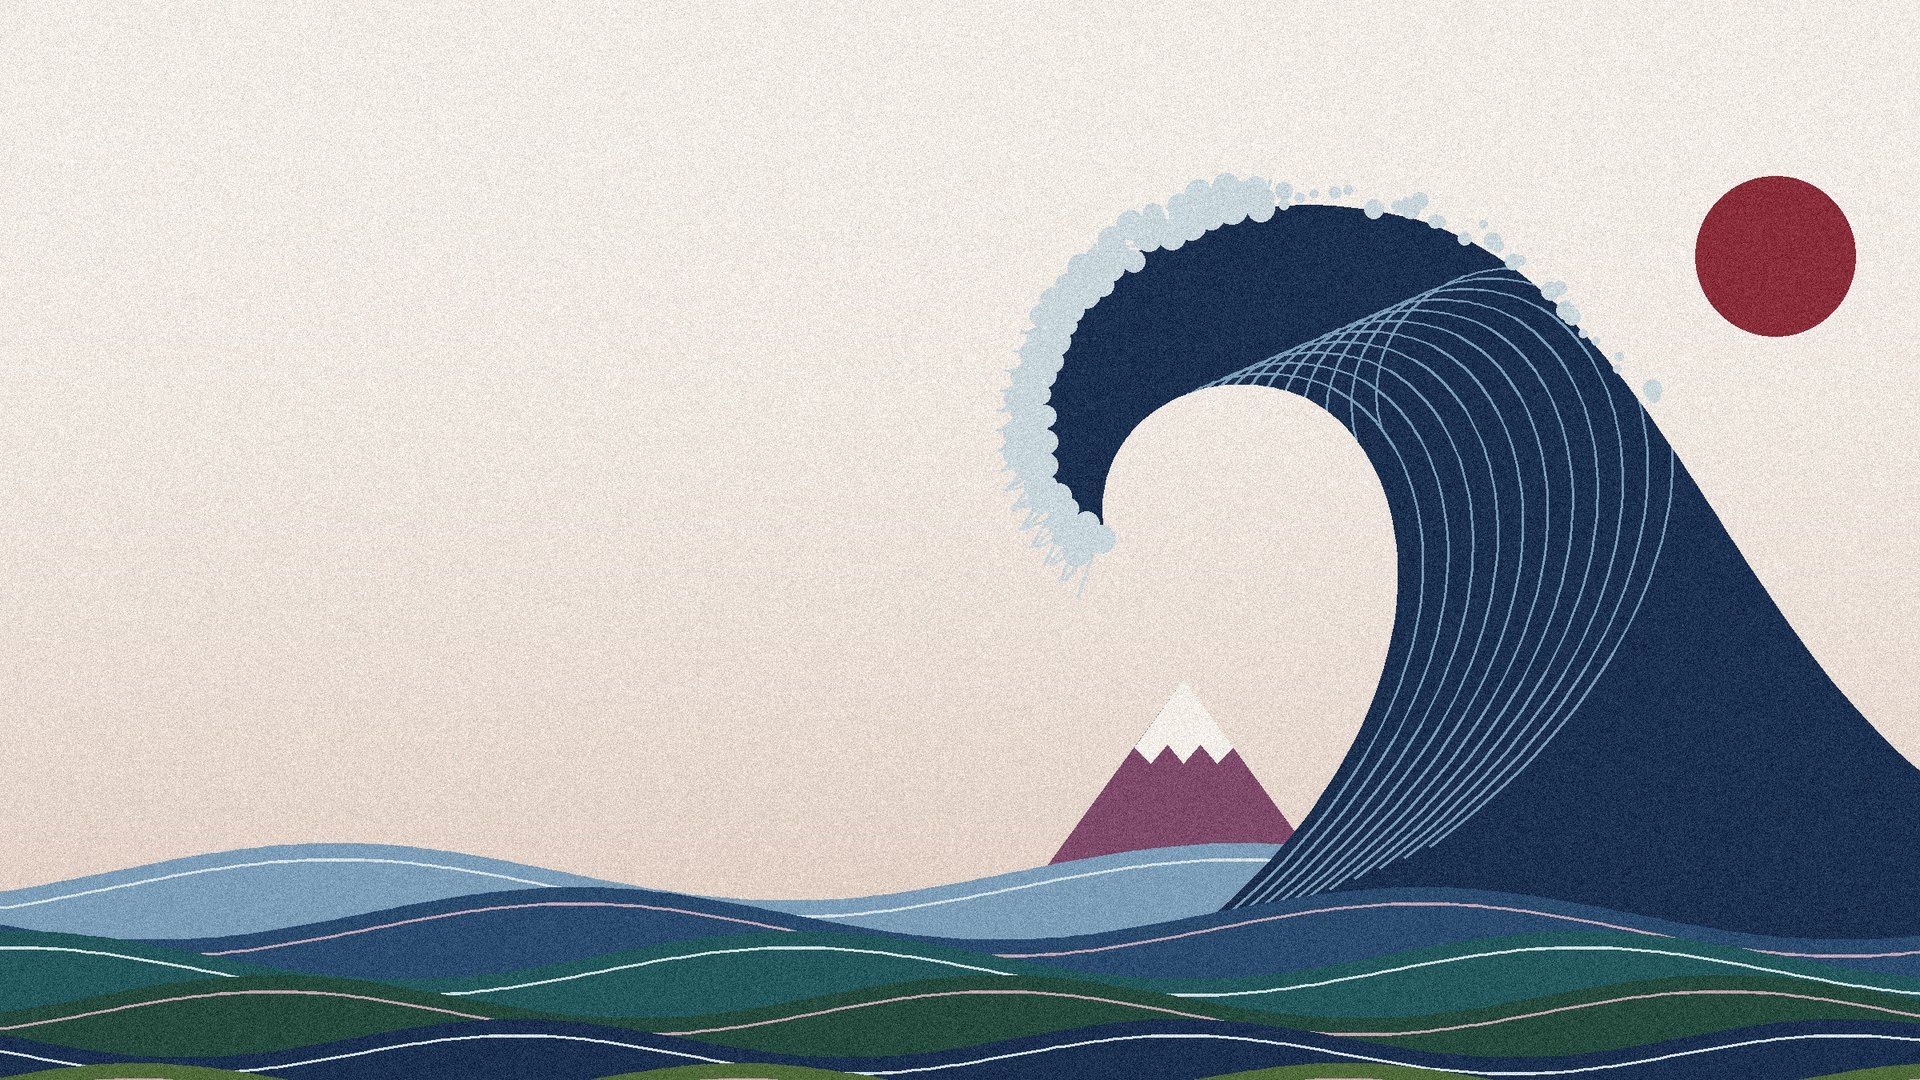
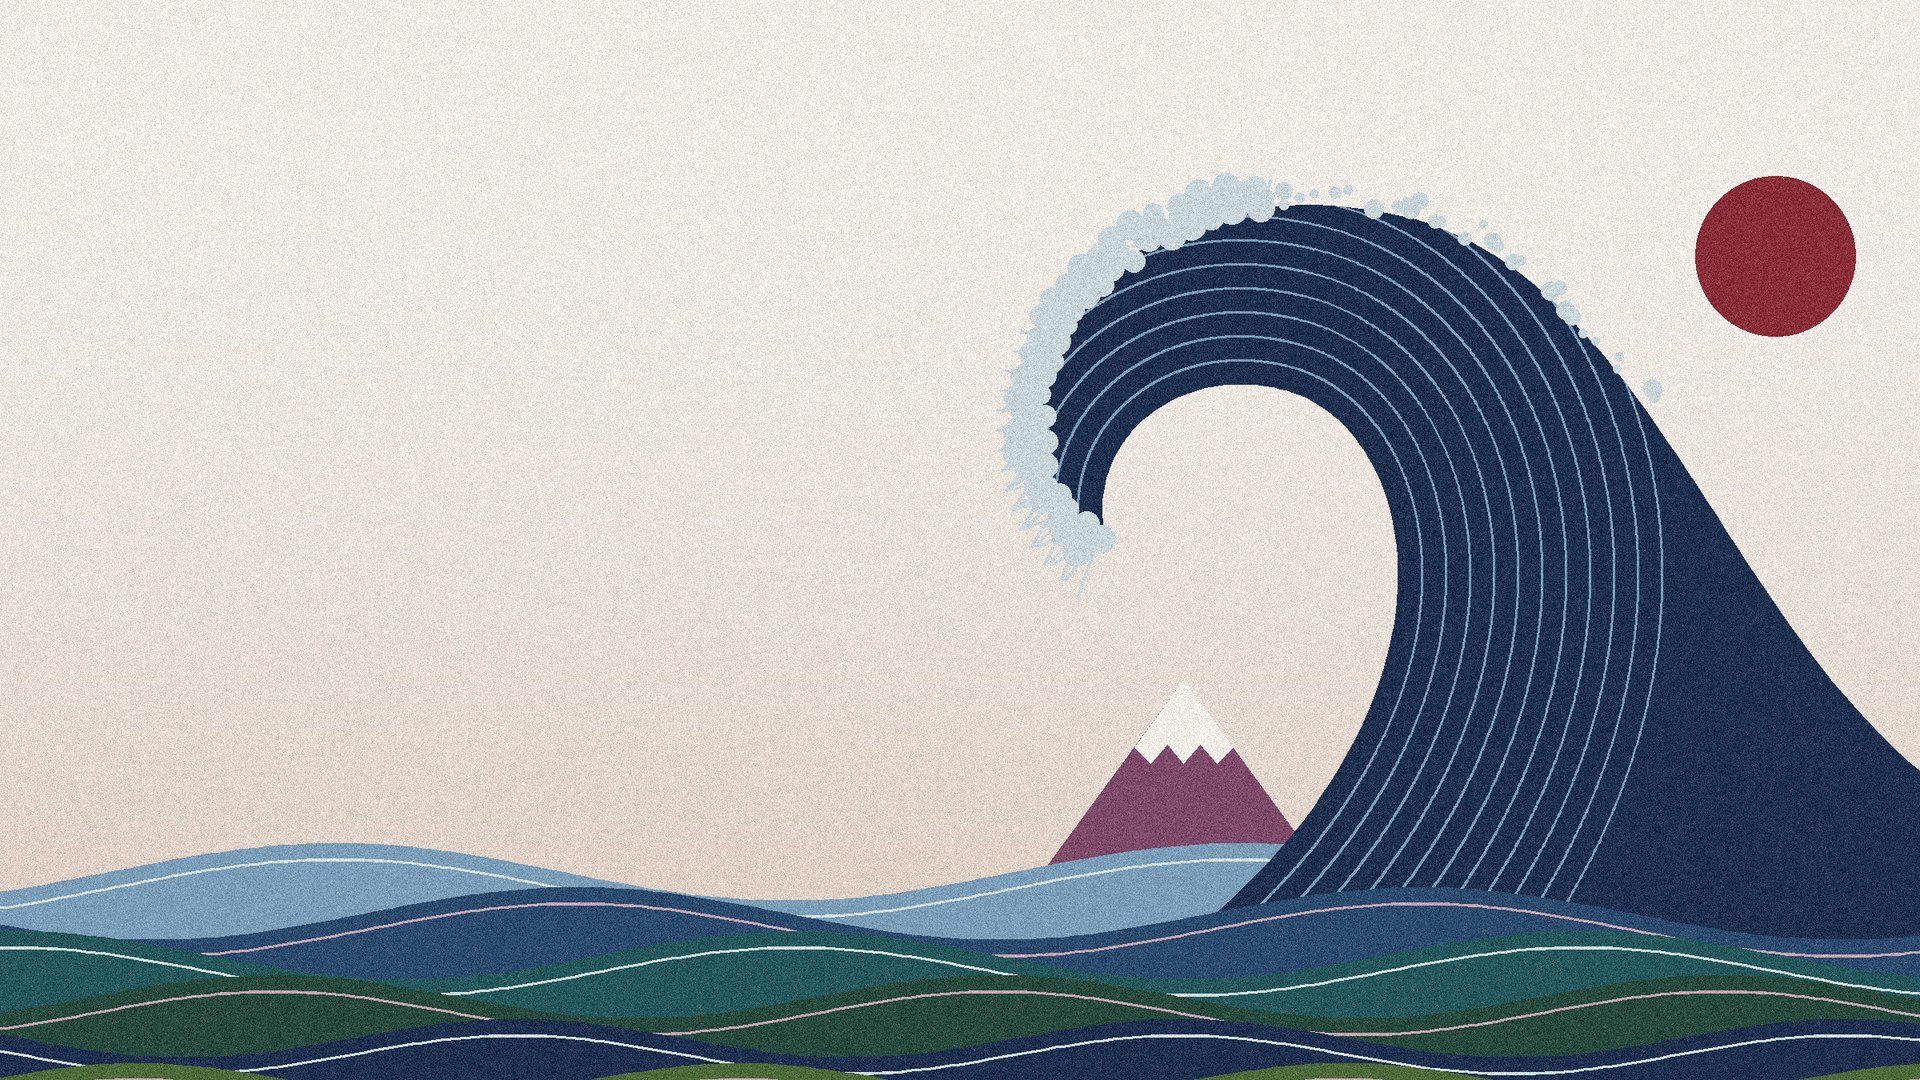
Hero wave lines run evenly; lighter grain on the signup sunset; 8 recent issues
The wave's stripes are now true parallel offsets of its inner curve, so they
follow the curl without crossing.

Claude-Session: https://claude.ai/code/session_01CPFfiZz4rjPwAdTY8Ptavd

Changed region(s): [[0.5625, 0.2139, 0.875, 0.8556]]

diff --git a/art/lib.py b/art/lib.py
@@ -50,7 +50,7 @@ def sea(im, y, col, line=None, gap=20, amp=4, freq=36, top=0):
             pts = [(x*S, (y0 + math.sin(x / freq + k) * amp)*S) for x in range(0, 1210, 5)]
             d.line(pts, fill=line, width=2*S)
 
-def wave(im, ox, oy, sc, body, stripe, foam, claws=True, seed=5, soft=False):
+def wave(im, ox, oy, sc, body, stripe, foam, claws=True, seed=5, soft=False, parallel=False):
     rng = np.random.default_rng(abs(int(seed)))
     d = ImageDraw.Draw(im)
     P = lambda x, y: ((ox + x * sc) * S, (oy + y * sc) * S)
@@ -69,7 +69,22 @@ def wave(im, ox, oy, sc, body, stripe, foam, claws=True, seed=5, soft=False):
         poly = [tuple(p) for p in outer] + [tuple(p) for p in inner] + [P(480, 900), P(0, 900)]
     mask = Image.new('L', (W, H), 0); ImageDraw.Draw(mask).polygon(poly, fill=255)
     layer = Image.new('RGB', (W, H), body); ld = ImageDraw.Draw(layer)
-    for k in range(1, 12):
+    if parallel:
+        # true parallel offsets of the inner curve, so the lines run evenly and never cross
+        dense = np.vstack([bez(*[np.array(q) for q in seg], n=400) for seg in (
+            (P(830, 385), P(860, 280), P(760, 195), P(650, 222)),
+            (P(650, 222), P(500, 255), P(430, 560), P(780, 820)))]) if soft else inner
+        tan = np.gradient(dense, axis=0); tan /= (np.linalg.norm(tan, axis=1, keepdims=True) + 1e-9)
+        nrm = np.stack([tan[:, 1], -tan[:, 0]], axis=1)
+        mk = np.asarray(mask)
+        mid = dense[len(dense) // 2] + nrm[len(dense) // 2] * 20 * S * sc
+        if not (0 <= int(mid[1]) < H and 0 <= int(mid[0]) < W and mk[int(mid[1]), int(mid[0])]):
+            nrm = -nrm
+        for k in range(1, 12):
+            pts = dense + nrm * k * 25 * sc * S
+            ld.line([tuple(p) for p in pts], fill=stripe, width=max(2, int(3 * S * max(sc, .6))), joint='curve')
+    else:
+      for k in range(1, 12):
         off = np.array([-k * 26 * sc * S, -k * 11 * sc * S])
         ld.line([tuple(p + off) for p in inner], fill=stripe, width=max(2, int(3 * S * max(sc, .6))))
     im.paste(layer, (0, 0), mask)

diff --git a/art/blog/signup_bands.py b/art/blog/signup_bands.py
@@ -87,6 +87,11 @@ rng5 = np.random.default_rng(25)
 a5 = np.asarray(small, dtype=float) + rng5.normal(0, 30, (352, 1100, 1))
 Image.fromarray(np.clip(a5, 0, 255).astype('uint8')).resize((1920, 614), Image.BICUBIC).save(OUT + 'signup_wine_sunset.jpg', quality=88)
 print('done 5')
+# 5 soft: the same scene with finer, lighter grain for the website
+small_s = im.resize((1500, 480), Image.LANCZOS)
+a5s = np.asarray(small_s, dtype=float) + np.random.default_rng(25).normal(0, 17, (480, 1500, 1))
+Image.fromarray(np.clip(a5s, 0, 255).astype('uint8')).resize((1920, 614), Image.BICUBIC).save(OUT + 'signup_wine_sunset_soft.jpg', quality=88)
+print('done 5 soft')
 
 # 7 Wine sunset with the moon's colour: option 5, but the sun takes the blush moon colour of the original band
 im = Image.fromarray(np.clip(base, 0, 255).astype('uint8'))

diff --git a/art/blog/banners_tall.py b/art/blog/banners_tall.py
@@ -98,7 +98,7 @@ im = canvas(c['paper'], c['clay'], 2)
 disc(im, 1200 - 1110, 160, 50, c['wine'])
 mountain(im, 350, 570, 460, 425, 575, c['plum'], snow=c['paper'])
 bands(im)
-wave(im, 10, 110, 0.6, c['indigo'], c['skyb'], c['mist'], seed=5, soft=True)
+wave(im, 10, 110, 0.6, c['indigo'], c['skyb'], c['mist'], seed=5, soft=True, parallel=True)
 bands(im, start=1)
 save(ImageOps.mirror(im), 'banner_swell_wave_mountain_sun_tall.jpg', seed=7)
 print('done 7b')

diff --git a/art/blog/banner_layers.py b/art/blog/banner_layers.py
@@ -52,7 +52,7 @@ save(im, 'bg.webp', 7)
 
 # the wave alone
 im = Image.new('RGBA', (W, H), (0, 0, 0, 0))
-wave(im, 10, 110, 0.6, c['indigo'], c['skyb'], c['mist'], seed=5, soft=True)
+wave(im, 10, 110, 0.6, c['indigo'], c['skyb'], c['mist'], seed=5, soft=True, parallel=True)
 save(im, 'wave.webp', 8, alpha=True)
 
 # front bands, one per layer
